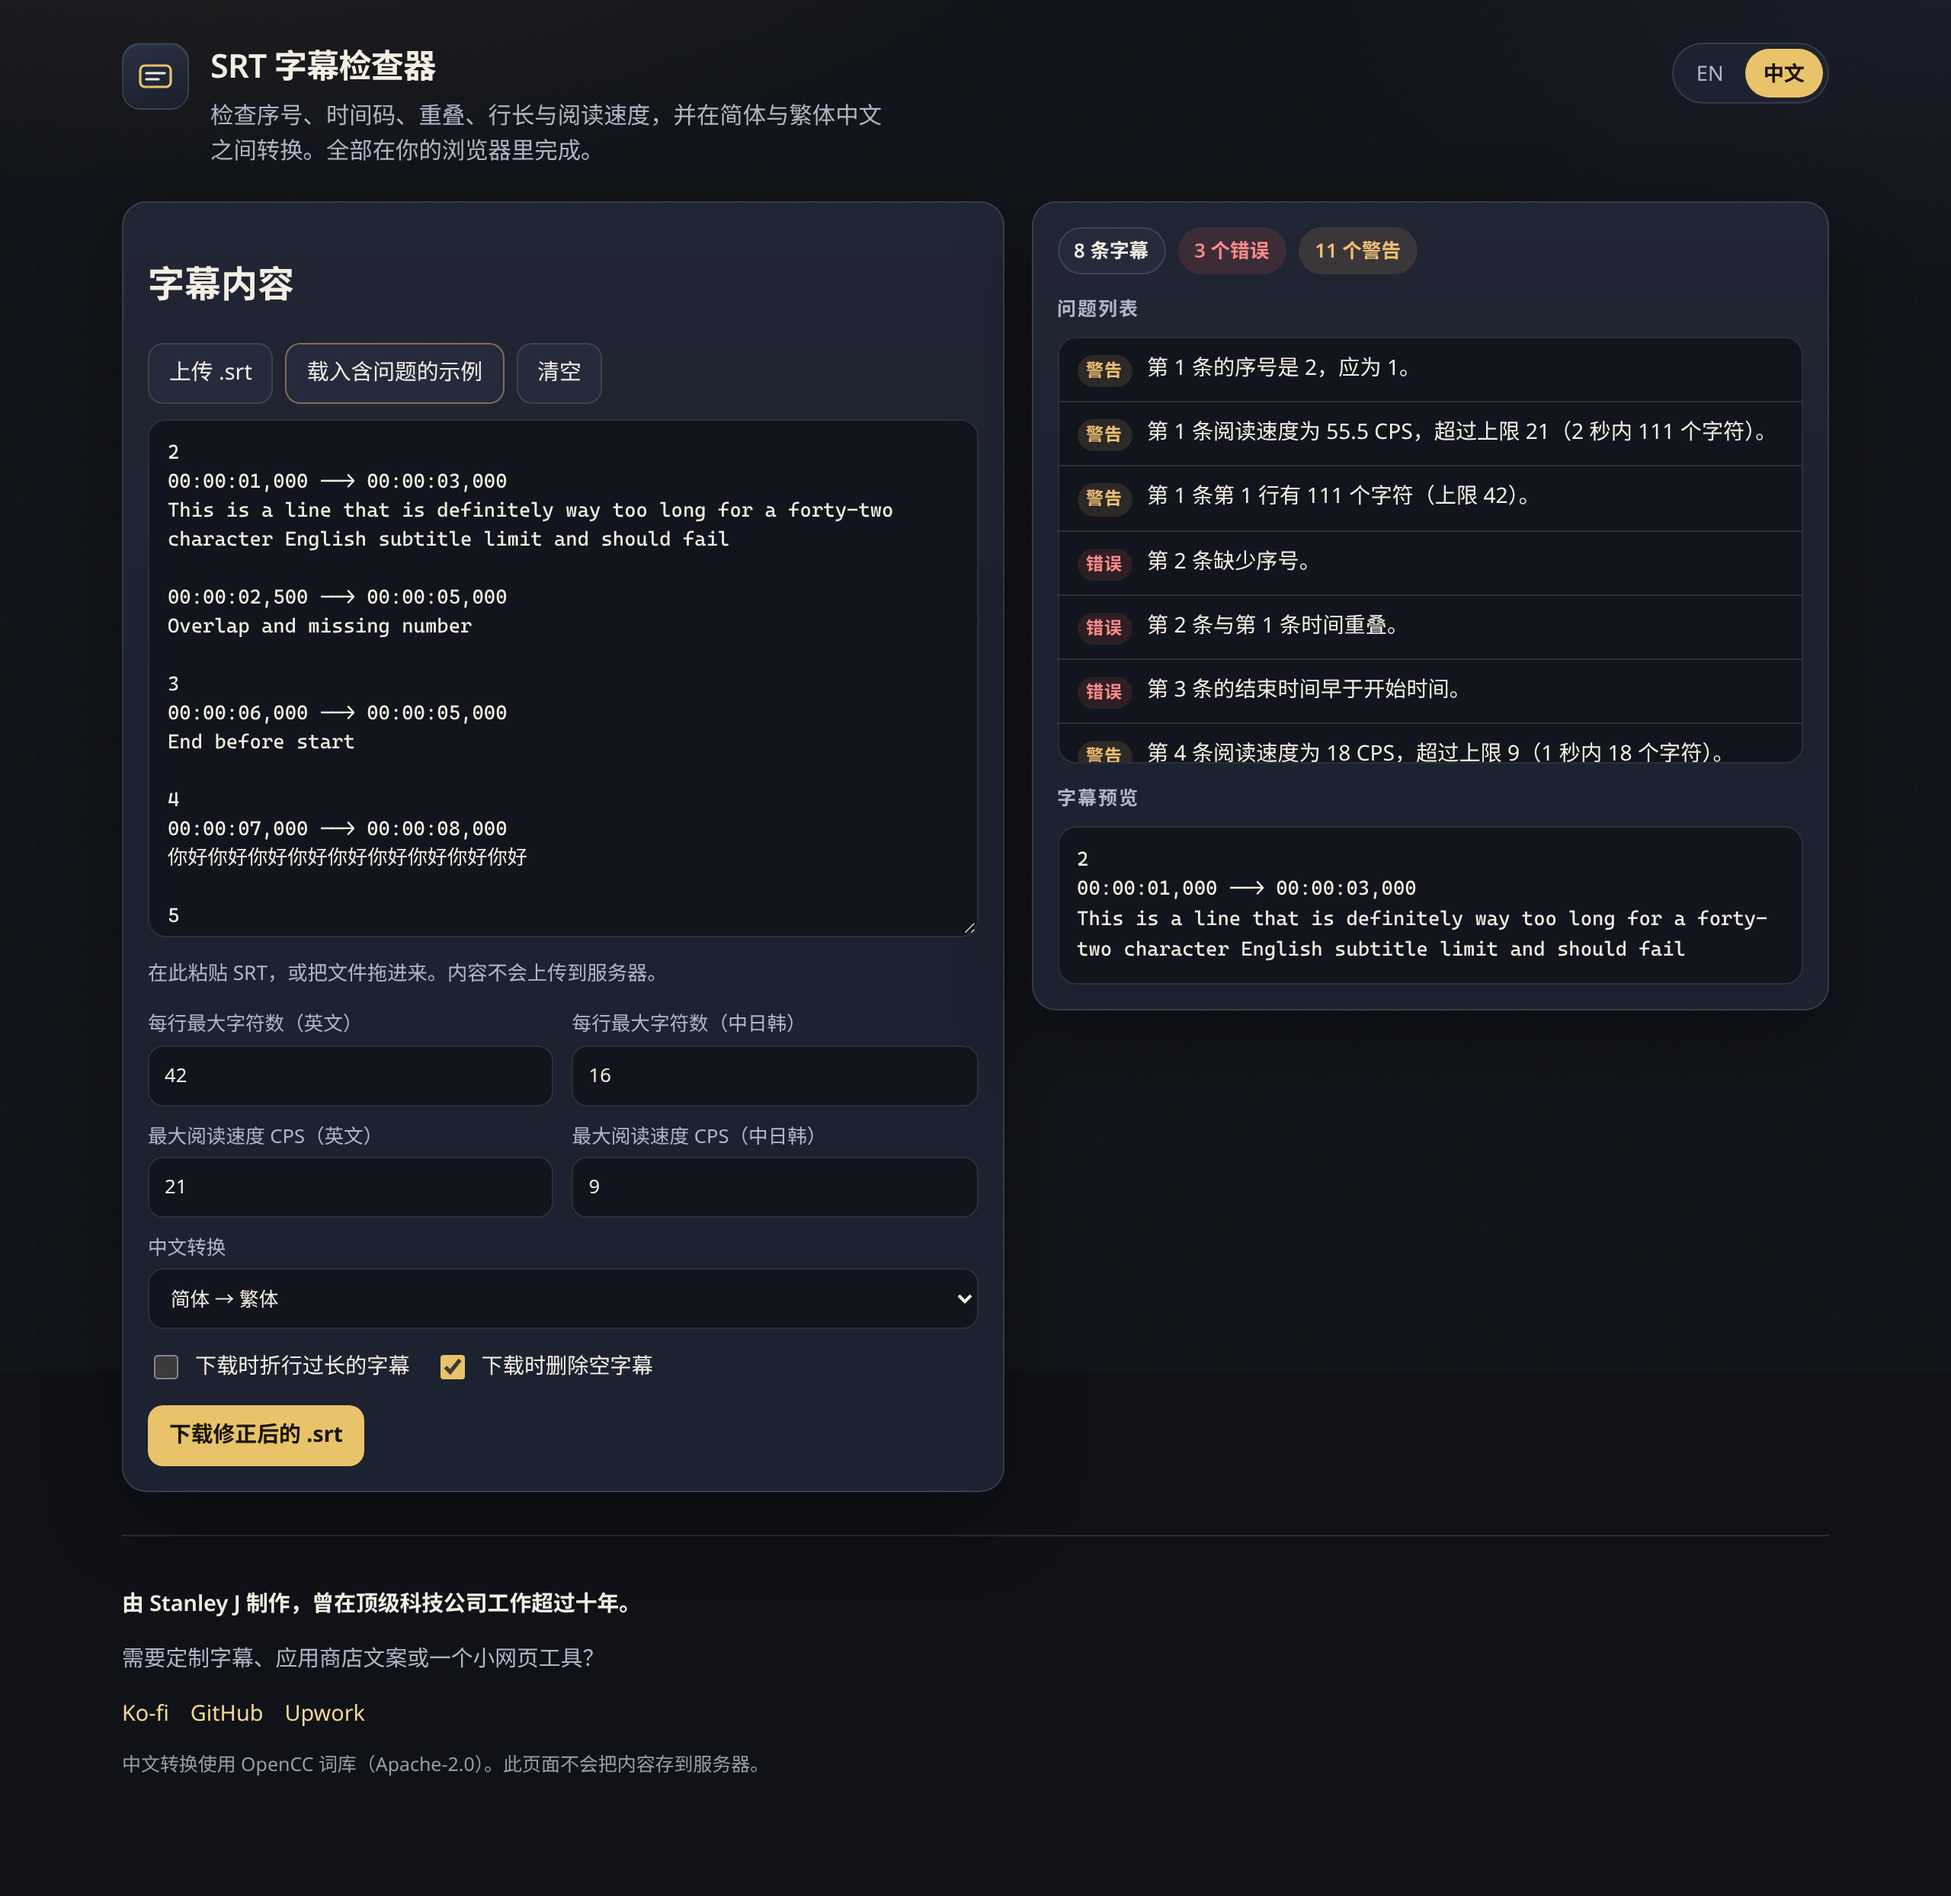
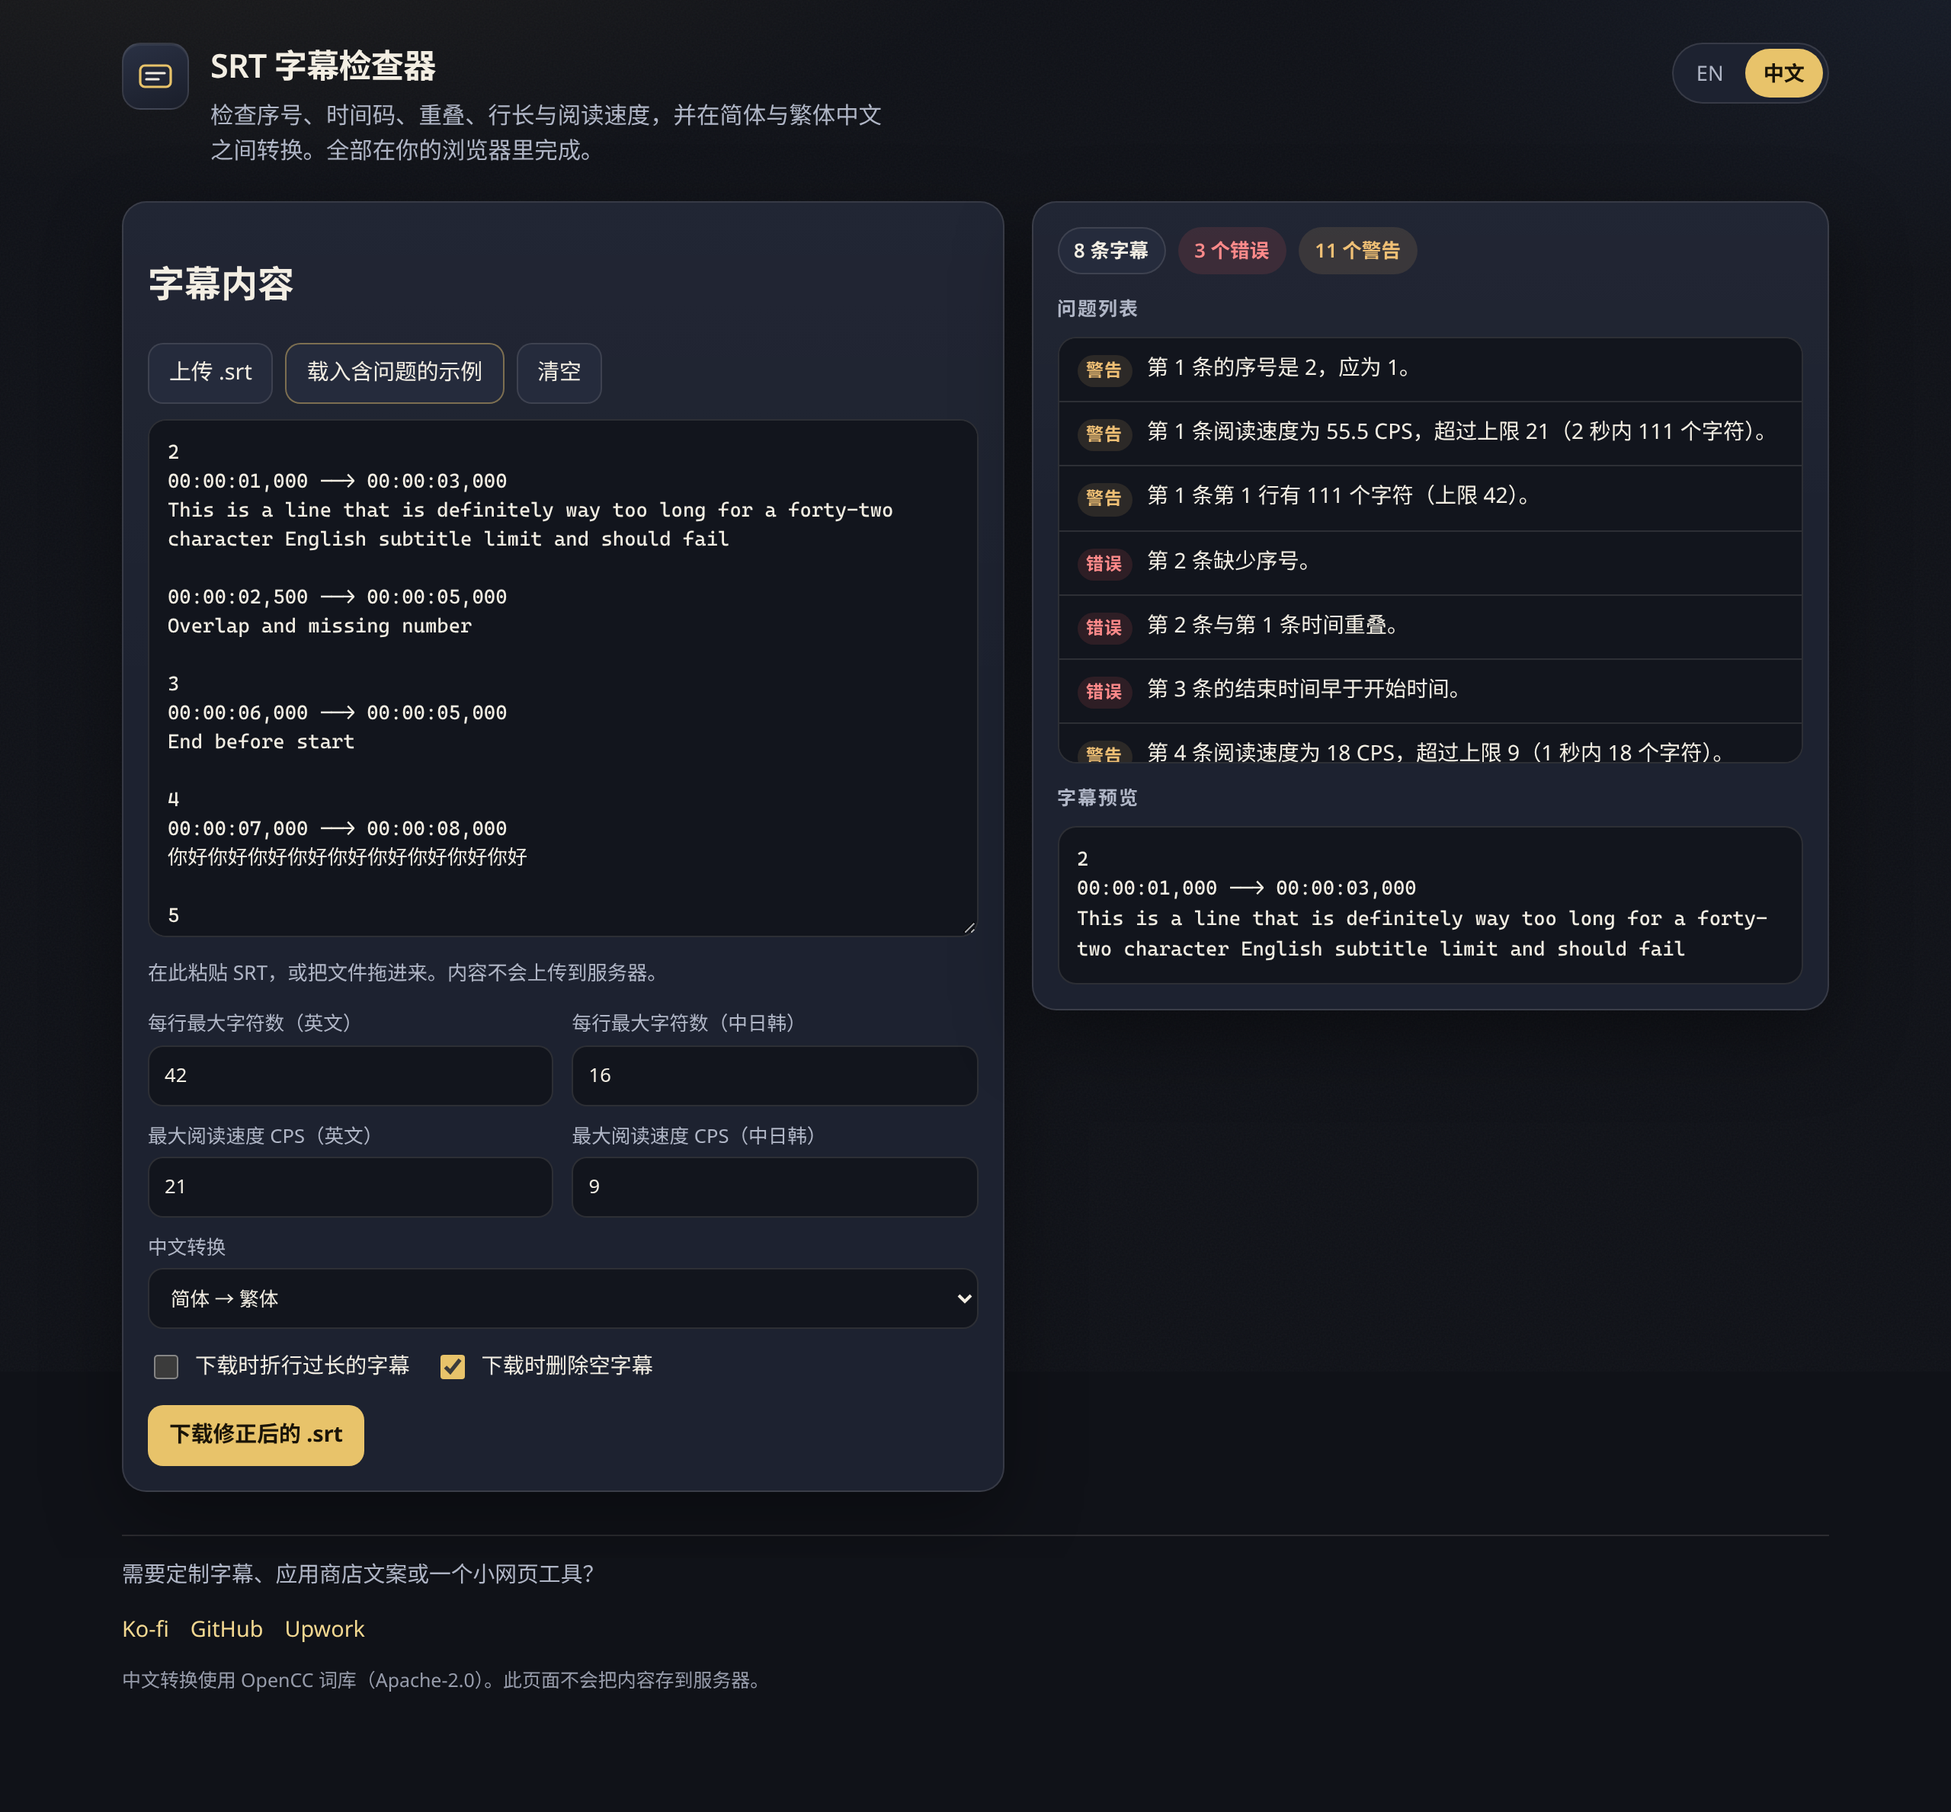
Remove author name from footer

diff --git a/index.html b/index.html
@@ -375,7 +375,6 @@ footer.site .legal { font-size: 0.78rem; opacity: 0.85; }
   </div>
 
   <footer class="site">
-    <p><strong data-i18n="footerBy">Made by Stanley J, 10+ years at top tech companies.</strong></p>
     <p data-i18n="footerCta">Need custom subtitles, ASO or a small web tool?</p>
     <p class="links">
       <a href="https://ko-fi.com/stanleyj" rel="noopener noreferrer">Ko-fi</a>
@@ -892,7 +891,7 @@ var OPENCC_DATA = {
       issues: "Issues",
       preview: "Cue preview",
       previewEmpty: "Select an issue or a cue will appear here after you add a file.",
-      footerBy: "Made by Stanley J, 10+ years at top tech companies.",
+      footerBy: "",
       footerCta: "Need custom subtitles, ASO or a small web tool?",
       kofi: "Ko-fi",
       github: "GitHub",
@@ -945,7 +944,7 @@ var OPENCC_DATA = {
       issues: "问题列表",
       preview: "字幕预览",
       previewEmpty: "点选一条问题，或加入文件后在此预览对应字幕。",
-      footerBy: "由 Stanley J 制作，曾在顶级科技公司工作超过十年。",
+      footerBy: "",
       footerCta: "需要定制字幕、应用商店文案或一个小网页工具？",
       kofi: "Ko-fi",
       github: "GitHub",

diff --git a/README.md b/README.md
@@ -22,4 +22,4 @@ A free, in-browser tool for checking and cleaning `.srt` subtitle files. Nothing
 
 The download always renumbers cues and normalizes timestamps. Tick **Wrap long lines** if you also want long lines broken to the current limits.
 
-Made by Stanley J, 10+ years at top tech companies. Need custom subtitles, ASO or a small web tool? [Ko-fi](https://ko-fi.com/stanleyj) · [GitHub](https://github.com/todanley) · [Upwork](https://www.upwork.com/freelancers/~011fabd9dccfd03cd8)
+Need custom subtitles, ASO or a small web tool? [Ko-fi](https://ko-fi.com/stanleyj) · [GitHub](https://github.com/todanley) · [Upwork](https://www.upwork.com/freelancers/~011fabd9dccfd03cd8)
